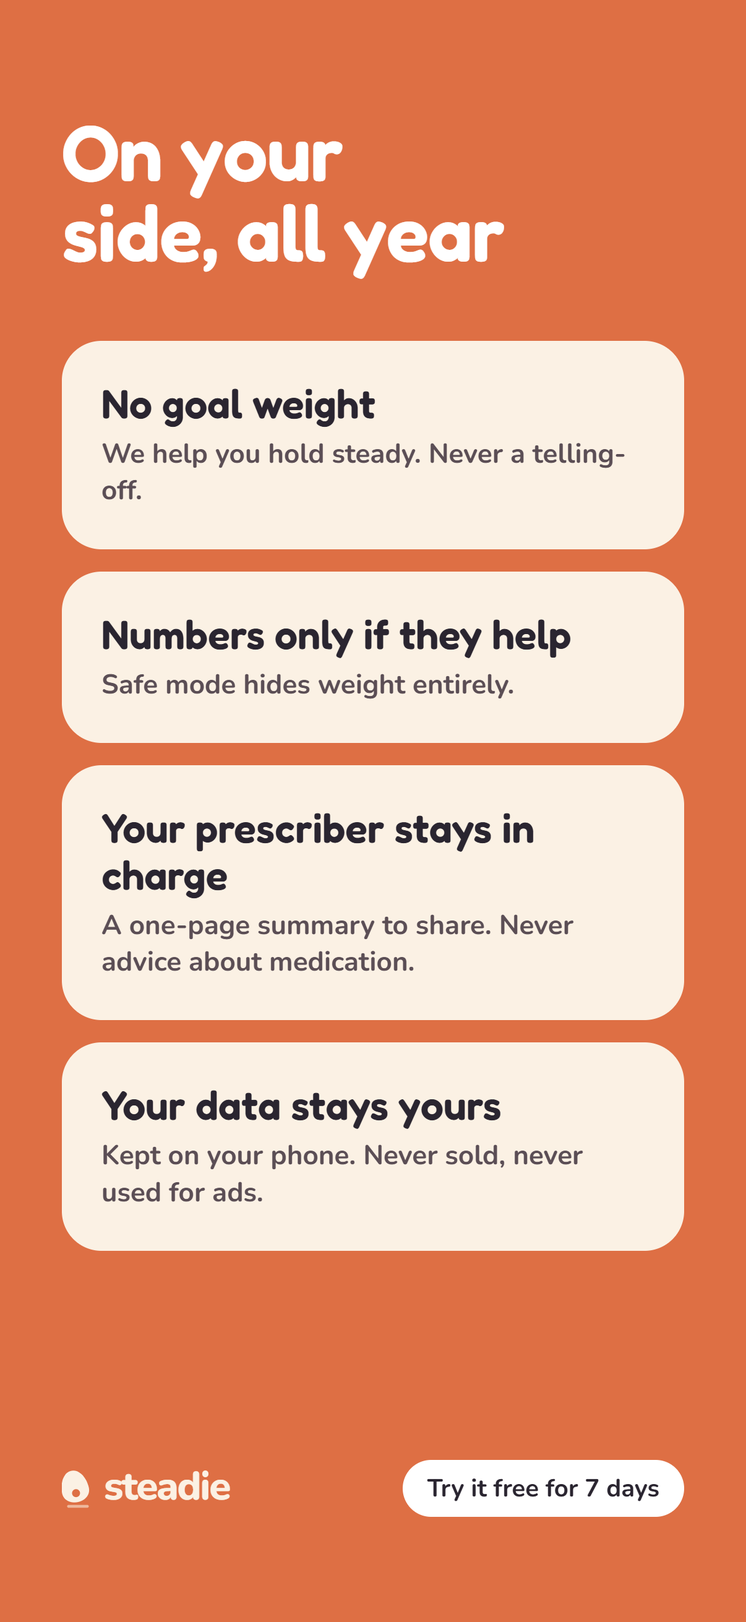
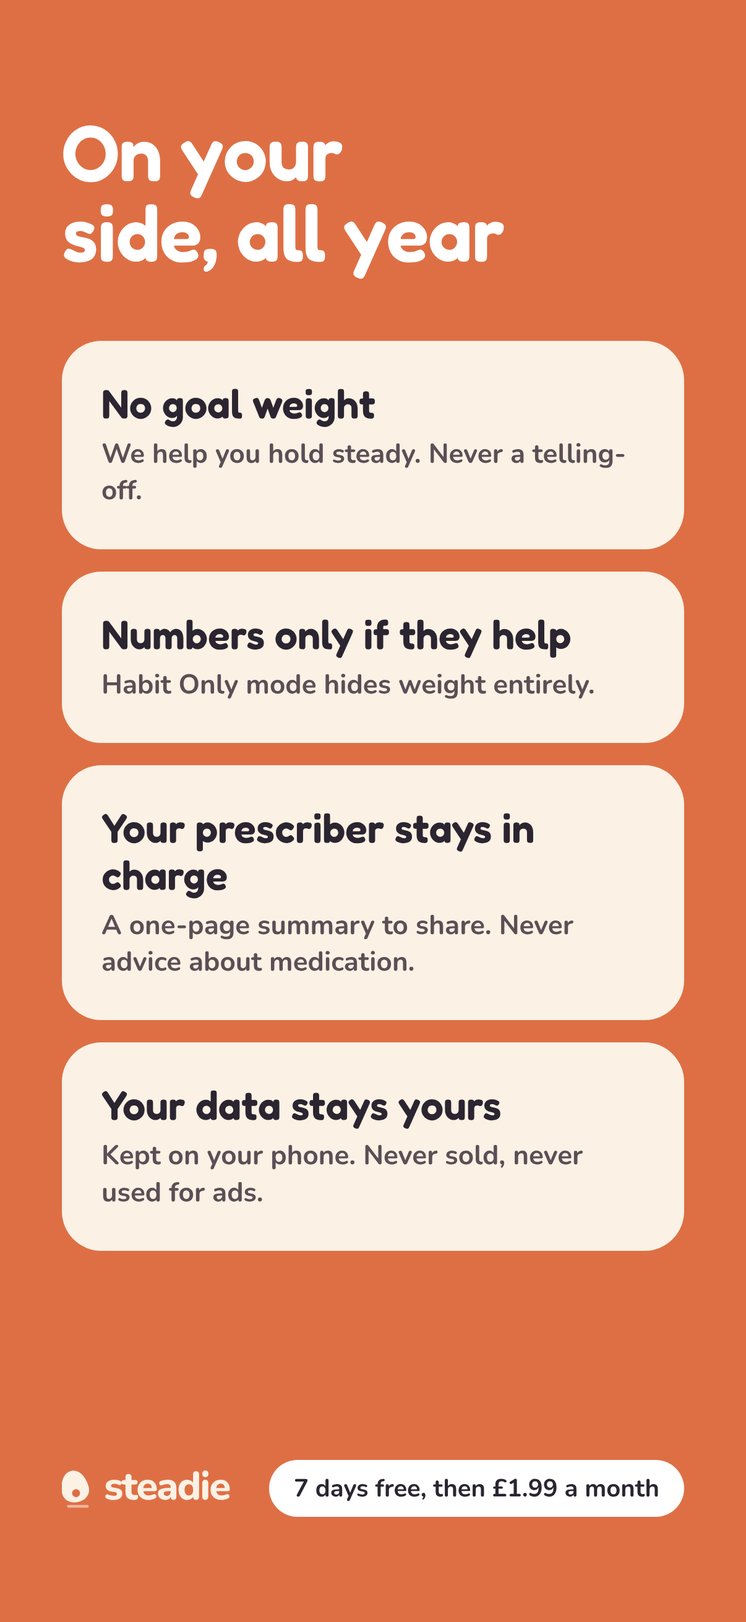
Launch price: £1.99 / $1.99 a month for new members, version 1.3
App: someone who has never had the plan sees RevenueCat's "launch"
offering (a separate £1.99 monthly subscription, kept for as long as they
stay subscribed) whenever it exists, labelled "Launch price"; everyone
else sees the usual plans. Deleting the offering in RevenueCat ends it.

Website: launch-price wording on the home pages (UK and US), pricing
card, FAQ, structured data, top bar and guide and tool footers, shown
only while LAUNCH_OFFER is "on" in Vercel.

Terms: a launch price stays the same while that subscription carries on.
App Store: slide 1 gets a launch-price pill and slide 10 reads "7 days
free, then £1.99 a month", with a $1.99 set for the US listing.
docs/payments.md has the App Store Connect, RevenueCat and Vercel steps.

Claude-Session: https://claude.ai/code/session_01AV66JMDACUJL34nuHYoVE1

Changed region(s): [[0.3375, 0.8959, 0.8897, 0.9577], [0.1534, 0.4016, 0.7977, 0.4325]]

diff --git a/apps/web/app/home.tsx b/apps/web/app/home.tsx
@@ -7,7 +7,7 @@ import { CareList } from "./care-list";
 import { ExerciseLoop } from "./exercise-loop";
 import { latestGuides, liveGuide, liveGuides } from "@/content/guides";
 import { SiteFooter, SiteHeader } from "./site-chrome";
-import { abs, appLive, appStoreUrl, availability, HOME, ldJson, ORGANIZATION, PRICE, PRICE_GBP, PRICE_US, PRICE_USD, SITE_NAME, type Region } from "./site";
+import { abs, appLive, appStoreUrl, availability, HOME, LAUNCH_OFFER, LAUNCH_PRICE, ldJson, ORGANIZATION, PRICE, PRICE_GBP, PRICE_US, PRICE_USD, SITE_NAME, type Region } from "./site";
 import { PrototypeLink } from "./prototype-link";
 import { StoreButtons } from "./app-store";
 import { GuideArt } from "./guides/art";
@@ -18,9 +18,9 @@ import { FilmPlayer } from "./film";
 // The home page, in two versions: the UK one at / (app/page.tsx) and the US one at /us (app/us/page.tsx). They share
 // everything except the words below: "jab" or "shot", GP or doctor, the brand names people know, and prices.
 const WORDS = {
-  uk: { jab: "jab", gp: "GP", brands: "Wegovy or Mounjaro", price: PRICE, raw: PRICE_GBP, currency: "GBP", lang: "en-GB",
+  uk: { jab: "jab", gp: "GP", brands: "Wegovy or Mounjaro", price: PRICE, raw: PRICE_GBP, launch: LAUNCH_PRICE.uk, currency: "GBP", lang: "en-GB",
     priceNote: "Prices in the UK, including VAT. Charged through your Apple account." },
-  us: { jab: "shot", gp: "doctor", brands: "Wegovy or Zepbound", price: PRICE_US, raw: PRICE_USD, currency: "USD", lang: "en-US",
+  us: { jab: "shot", gp: "doctor", brands: "Wegovy or Zepbound", price: PRICE_US, raw: PRICE_USD, launch: LAUNCH_PRICE.us, currency: "USD", lang: "en-US",
     priceNote: "Prices in US dollars. Sales tax is added where it applies. Charged through your Apple account." },
 } as const;
 type Words = (typeof WORDS)[Region];
@@ -127,7 +127,7 @@ const faqs = (live: boolean, w: Words) => [
   { q: "What do I need for the exercises?", a: "Nothing but a chair and a bit of space at home to start. Most moves have an easier version, and sessions step up gently over the weeks as you get stronger." },
   { q: "Does it work with my diet?", a: "Every meal has swaps for vegetarian, vegan, gluten-free, dairy-free, halal and kosher eating, allergies and a microwave-only kitchen." },
   { q: "Where is my data kept?", a: "On your phone. If you sign in, Steadie also keeps a private, encrypted backup so your plan moves with you to a new phone. It's never sold or used for ads, and you can export everything or delete your account from Settings. If you connect Apple Health, that information is only used for your own plan, and never for advertising." },
-  { q: "When can I use it, and what will it cost?", a: `${live ? `Now, on iPhone: download Steadie from the App Store.${availability(live).soonAndroid}` : "Steadie is coming soon to iPhone and Android."} Both plans start with a 7-day free trial: then ${w.price.yearly} a year, or ${w.price.monthly} a month. Cancel any time in your iPhone settings.` },
+  { q: "When can I use it, and what will it cost?", a: `${live ? `Now, on iPhone: download Steadie from the App Store.${availability(live).soonAndroid}` : "Steadie is coming soon to iPhone and Android."} ${LAUNCH_OFFER ? `It starts with a 7-day free trial, then ${w.launch} a month. That's our launch price for new members, and it stays yours for as long as you stay subscribed.` : `Both plans start with a 7-day free trial: then ${w.price.yearly} a year, or ${w.price.monthly} a month.`} Cancel any time in your iPhone settings.` },
 ];
 
 // STEP 1 trial extension (reference 1): mean change in body weight from the start of treatment.
@@ -180,7 +180,9 @@ const homeLd = (live: boolean, FAQS: ReturnType<typeof faqs>, region: Region) =>
       inLanguage: w.lang,
       publisher: { "@id": ORGANIZATION["@id"] },
       ...(live ? { url: store, downloadUrl: store } : {}),
-      offers: [
+      offers: LAUNCH_OFFER ? [
+        { "@type": "Offer", name: "Monthly, launch price", price: LAUNCH_PRICE.raw, priceCurrency: w.currency, description: "7 days free, then billed monthly at the launch price for as long as you stay subscribed." },
+      ] : [
         { "@type": "Offer", name: "Monthly", price: w.raw.monthly, priceCurrency: w.currency, description: "7 days free, then billed monthly." },
         { "@type": "Offer", name: "Yearly", price: w.raw.yearly, priceCurrency: w.currency, description: "7 days free, then billed yearly." },
       ],
@@ -219,7 +221,7 @@ export async function HomePage({ region }: { region: Region }) {
             <p className={styles.lede}>The 12-month plan for the year after you stop a weight-loss {w.jab}. Strength, protein and steady habits to keep the weight off, with support on your side.</p>
             <div id="download" className={styles.heroCta}>
               <StoreButtons campaign={`${page}-hero`} region={region} />
-              <p className={styles.storeNote}>7 days free, then {w.price.yearly} a year or {w.price.monthly} a month. For iPhone, and soon Android.</p>
+              <p className={styles.storeNote}>{LAUNCH_OFFER ? <>7 days free, then {w.launch} a month: our launch price, yours for as long as you stay.</> : <>7 days free, then {w.price.yearly} a year or {w.price.monthly} a month.</>} For iPhone, and soon Android.</p>
             </div>
           </div>
           <div className={styles.heroArt} aria-hidden="true">
@@ -468,13 +470,19 @@ export async function HomePage({ region }: { region: Region }) {
             <div className={styles.splitCopy}>
               <p className={styles.eyebrow}>Pricing</p>
               <h2 id="price-title" className={styles.h2Light}>One membership, everything included</h2>
-              <p className={styles.sectionLede}>Try everything free for 7 days, on either plan. We remind you before the trial ends, and you can cancel any time in your iPhone settings.</p>
+              <p className={styles.sectionLede}>{LAUNCH_OFFER ? <>Our launch price for new members: {w.launch} a month, for as long as you stay subscribed. Try everything free for 7 days first.</> : <>Try everything free for 7 days, on either plan.</>} We remind you before the trial ends, and you can cancel any time in your iPhone settings.</p>
             </div>
             <div className={styles.priceCard}>
-              <span className={styles.badge}>7 days free</span>
-              <p className={styles.priceName}>Yearly</p>
-              <p className={styles.price}>{w.price.yearly}<span> a year</span></p>
-              <p className={styles.muted}>About {w.price.weekly} a week. Or {w.price.monthly} a month. Both start with 7 days free.</p>
+              <span className={styles.badge}>{LAUNCH_OFFER ? "Launch price" : "7 days free"}</span>
+              {LAUNCH_OFFER ? <>
+                <p className={styles.priceName}>Monthly</p>
+                <p className={styles.price}>{w.launch}<span> a month</span></p>
+                <p className={styles.muted}>After 7 days free. The price stays yours for as long as you stay subscribed.</p>
+              </> : <>
+                <p className={styles.priceName}>Yearly</p>
+                <p className={styles.price}>{w.price.yearly}<span> a year</span></p>
+                <p className={styles.muted}>About {w.price.weekly} a week. Or {w.price.monthly} a month. Both start with 7 days free.</p>
+              </>}
               <ul className={styles.priceList}>
                 {["Your 12-month plan, with a lesson each week", "Strength sessions that step up as you do", "Easy meals, swaps and shopping lists", "A morning check-in and your weekly steady score", "A look back at your month, every four weeks", "A coach for tricky days", "A summary for your prescriber", "Reminders and Apple Health"].map((x) => (
                   <li key={x}><Icon name="check" size={18} />{x}</li>
@@ -519,9 +527,9 @@ export async function HomePage({ region }: { region: Region }) {
         <section className={styles.cta} aria-labelledby="cta-title">
           <div className={`${styles.wrap} ${styles.ctaInner}`}>
             <h2 id="cta-title" className={styles.display}>Make this year your steady one</h2>
-            <p className={styles.lede}>Try the full plan free for 7 days, on either plan.</p>
+            <p className={styles.lede}>Try the full plan free for 7 days{LAUNCH_OFFER ? "" : ", on either plan"}.</p>
             <StoreButtons campaign={`${page}-signoff`} region={region} />
-            <p className={styles.storeNote}>Then {w.price.yearly} a year or {w.price.monthly} a month. Cancel any time in your iPhone settings.</p>
+            <p className={styles.storeNote}>{LAUNCH_OFFER ? <>Then {w.launch} a month, our launch price.</> : <>Then {w.price.yearly} a year or {w.price.monthly} a month.</>} Cancel any time in your iPhone settings.</p>
           </div>
         </section>
       </main>

diff --git a/apps/mobile/src/state/subscription.ts b/apps/mobile/src/state/subscription.ts
@@ -5,7 +5,7 @@
 // always theirs. Two plans, monthly and yearly, each with a 7-day free trial for new subscribers. Products, prices
 // and the trials live in App Store Connect and RevenueCat (see docs/payments.md), not here.
 import { Linking, Platform } from "react-native";
-import Purchases, { INTRO_ELIGIBILITY_STATUS, LOG_LEVEL, PURCHASES_ERROR_CODE, type CustomerInfo, type PurchasesPackage } from "react-native-purchases";
+import Purchases, { INTRO_ELIGIBILITY_STATUS, LOG_LEVEL, PURCHASES_ERROR_CODE, type CustomerInfo, type PurchasesOffering, type PurchasesPackage } from "react-native-purchases";
 import { introPhrase, period } from "@/data/period";
 import { track } from "./events";
 import { install, updateInstall } from "./install";
@@ -94,18 +94,29 @@ export interface Plan {
   saving?: string;
   /** From a discount code's offering rather than the usual one. */
   discounted: boolean;
+  /** The launch price for new members (the "launch" offering): theirs for as long as they stay subscribed. */
+  launch: boolean;
 }
+
+/** The RevenueCat offering with the launch price for new members (£1.99 / $1.99 a month, kept for as long as they stay
+ *  subscribed). While it exists, people who have never had the plan see it; deleting it in RevenueCat ends the offer
+ *  with no app update. See docs/payments.md. */
+export const LAUNCH_OFFERING = "launch";
 
 /** The plans on offer, yearly first. A trial is only offered to people Apple will give it to (one per Apple ID, per
  *  subscription group); when RevenueCat can't tell, the plain price is shown, as Apple and RevenueCat advise. With a
- *  discount code's offering (`offering`), its discounted plans if RevenueCat has them, otherwise the usual ones. */
-export async function plans(offering?: string | null): Promise<Plan[]> {
-  // The current offering ("default" in RevenueCat), or the code's: its annual and monthly packages, picked by type
-  // rather than by the order the dashboard lists them in, with yearly first.
+ *  discount code's offering (`offering`), its discounted plans if RevenueCat has them; otherwise, for someone who has
+ *  never had the plan (`newMember`), the launch offering while there is one; otherwise the usual ones. */
+export async function plans(offering?: string | null, newMember = false): Promise<Plan[]> {
+  // The current offering ("default" in RevenueCat), the code's or the launch one: its annual and monthly packages,
+  // picked by type rather than by the order the dashboard lists them in, with yearly first.
   const all = await Purchases.getOfferings();
+  const has = (o?: PurchasesOffering) => !!o && !!(o.annual || o.monthly);
   const coded = offering ? all.all[offering] : undefined;
-  const discounted = !!coded && !!(coded.annual || coded.monthly);
-  const current = discounted ? coded : all.current;
+  const discounted = has(coded);
+  const launchOffer = !discounted && newMember ? all.all[LAUNCH_OFFERING] : undefined;
+  const launch = has(launchOffer);
+  const current = discounted ? coded : launch ? launchOffer : all.current;
   const monthlyPkg = current?.monthly ?? undefined;
   const pkgs = [current?.annual, current?.monthly].filter((p): p is PurchasesPackage => !!p);
   if (!pkgs.length) throw Object.assign(new Error("The current offering has no annual or monthly package."), { code: "none" });
@@ -132,6 +143,7 @@ export async function plans(offering?: string | null): Promise<Plan[]> {
         intro: introText,
         saving: saving > 0 ? `Save ${saving}%` : undefined,
         discounted,
+        launch,
       };
     });
 }

diff --git a/apps/mobile/src/app/settings/index.tsx b/apps/mobile/src/app/settings/index.tsx
@@ -47,14 +47,19 @@ export default function Settings() {
   // A week before a yearly plan renews: a calm note with the date and the way to change it.
   const renewal = renewalSoon(sub) && sub?.until ? renewalMessage(sub.until) : null;
   // A second free trial isn't on offer (one per Apple ID), so "See plans" only promises one when the App Store says so.
-  const [trial, setTrial] = useState<string | null>(null);
+  const [planLine, setPlanLine] = useState<string | null>(null);
   const subActive = !!sub?.active;
   useEffect(() => {
     if (!billingEnabled() || s.demo || subActive) return;
     let live = true;
-    plans().then((p) => { if (live) setTrial(p.find((x) => x.trial)?.trial ?? null); }, () => {});
+    // What "See plans" offers: the launch price for someone new, otherwise the trial (when Apple will give one) and the plans.
+    plans(null, !sub?.ended).then((p) => {
+      if (!live) return;
+      const trial = p.find((x) => x.trial)?.trial, launch = p.find((x) => x.launch);
+      setPlanLine(launch ? `${trial ? `${trial} free, then ` : ""}${launch.price} a month, the launch price` : trial ? `${trial} free, then monthly or yearly` : null);
+    }, () => {});
     return () => { live = false; };
-  }, [s.demo, subActive]);
+  }, [s.demo, subActive, sub?.ended]);
   const backedUp = status === "saving" ? "Backing up…" : status === "offline" ? "Couldn't reach Steadie. It'll try again." : account?.syncedAt ? `Backed up ${when(account.syncedAt)}` : "Backs up once your plan is set up";
   const fail = (e: unknown) => toast(e instanceof AccountError ? e.message : "Something went wrong. Try again.");
   // Without an account, signing out means deleting: there's no backup to come back to, so the warning says so plainly
@@ -139,7 +144,7 @@ export default function Settings() {
           <Row title="Restore purchases" onPress={() => restore().then((ok) => toast(ok ? "Your subscription is back." : `We couldn't find a subscription for this ${STORE_WORDS.account}.`), () => toast("Couldn't restore just now. Try again in a moment."))} />
           <Row title={`Redeem ${Platform.OS === "android" ? "a Google Play" : "an App Store"} code`} sub="An offer code from Steadie, entered with the store" onPress={() => redeemCode().catch(() => toast("Couldn't open the code screen just now. Try again in a moment."))} />
           <Row title="Send my Steadie ID" sub="For help with your subscription, or free access from us" onPress={() => subscriberId().then((id) => Share.share({ message: `My Steadie ID: ${id}` })).catch(() => toast("Couldn't get your Steadie ID just now. Try again in a moment."))} />
-          {sub?.active ? null : <Row title="See plans" sub={trial ? `${trial} free, then monthly or yearly` : "Monthly or yearly"} onPress={() => router.push("/paywall")} />}
+          {sub?.active ? null : <Row title="See plans" sub={planLine ?? "Monthly or yearly"} onPress={() => router.push("/paywall")} />}
         </List>
         {renewal ? (
           <Card style={{ gap: 6, marginTop: space[3] }}>

diff --git a/designs/brand/Steadie App Store Assets.dc.html b/designs/brand/Steadie App Store Assets.dc.html
@@ -77,14 +77,14 @@
 <div style="font:600 128px/1.02 Fredoka;color:#FFFFFF;letter-spacing:-0.01em;text-wrap:balance">On your side, all year</div>
 <div style="display:flex;flex-direction:column;gap:36px">
 <div style="background:#FBF1E4;border-radius:64px;padding:64px 64px;display:flex;flex-direction:column;gap:14px"><div style="font:600 66px/1.15 Fredoka;color:#2A2530">No goal weight</div><div style="font:700 44px/1.35 Nunito;color:#5B4E55">We help you hold steady. Never a telling-off.</div></div>
-<div style="background:#FBF1E4;border-radius:64px;padding:64px 64px;display:flex;flex-direction:column;gap:14px"><div style="font:600 66px/1.15 Fredoka;color:#2A2530">Numbers only if they help</div><div style="font:700 44px/1.35 Nunito;color:#5B4E55">Safe mode hides weight entirely.</div></div>
+<div style="background:#FBF1E4;border-radius:64px;padding:64px 64px;display:flex;flex-direction:column;gap:14px"><div style="font:600 66px/1.15 Fredoka;color:#2A2530">Numbers only if they help</div><div style="font:700 44px/1.35 Nunito;color:#5B4E55">Habit Only mode hides weight entirely.</div></div>
 <div style="background:#FBF1E4;border-radius:64px;padding:64px 64px;display:flex;flex-direction:column;gap:14px"><div style="font:600 66px/1.15 Fredoka;color:#2A2530">Your prescriber stays in charge</div><div style="font:700 44px/1.35 Nunito;color:#5B4E55">A one-page summary to share. Never advice about medication.</div></div>
 <div style="background:#FBF1E4;border-radius:64px;padding:64px 64px;display:flex;flex-direction:column;gap:14px"><div style="font:600 66px/1.15 Fredoka;color:#2A2530">Your data stays yours</div><div style="font:700 44px/1.35 Nunito;color:#5B4E55">Kept on your phone. Never sold, never used for ads.</div></div>
 </div>
 </div>
 <div style="position:absolute;left:100px;right:100px;bottom:170px;display:flex;align-items:center;justify-content:space-between;gap:30px">
 <div style="display:flex;align-items:center;gap:16px"><svg viewBox="22 18 56 76" width="52" height="70"><g transform="rotate(-12 50 80)"><path d="M50 24 C66 24 74 44 74 59 C74 72 63 80 50 80 C37 80 26 72 26 59 C26 44 34 24 50 24 Z" fill="#FBF1E4"></path><circle cx="50" cy="64" r="7" fill="#DE6F44"></circle></g><rect x="31" y="85" width="38" height="5" rx="2.5" fill="#FBF1E4" opacity=".55"></rect></svg><div style="font-family:Nunito;font-weight:800;font-size:64px;line-height:1;letter-spacing:-0.035em;color:#FBF1E4;display:flex;align-items:baseline;padding-bottom:6px"><span>stead</span><span style="position:relative;letter-spacing:0;margin-right:-0.035em">ı<span style="position:absolute;left:50%;top:0.1em;width:0.16em;height:0.16em;margin-left:-0.08em;border-radius:50%;background:#FBF1E4"></span></span><span>e</span></div></div>
-<div style="font:700 40px/1 Nunito;color:#2A2530;background:#FFFFFF;border-radius:999px;padding:26px 40px">Try it free for 7 days</div>
+<div style="font:700 40px/1 Nunito;color:#2A2530;background:#FFFFFF;border-radius:999px;padding:26px 40px">7 days free, then £1.99 a month</div>
 </div>
 </div></div>
 

diff --git a/apps/mobile/src/app/paywall.tsx b/apps/mobile/src/app/paywall.tsx
@@ -52,7 +52,8 @@ export default function Paywall() {
   const [codeText, setCodeText] = useState("");
   const [codeError, setCodeError] = useState<string | undefined>();
   const [codeBusy, setCodeBusy] = useState(false);
-  const fetchPlans = () => plans(discount?.offering).then((o) => { setOptions(o); setPick(0); }).catch((e) => setFailed(plansProblem(e)));
+  const newMember = !s.subscription?.active && !s.subscription?.ended;
+  const fetchPlans = () => plans(discount?.offering, newMember).then((o) => { setOptions(o); setPick(0); }).catch((e) => setFailed(plansProblem(e)));
   const load = () => { setFailed(null); setOptions(null); fetchPlans(); };
   useEffect(() => { track("paywall_viewed", { lapsed, from: fromOnboarding ? "onboarding" : "app" }); }, []); // eslint-disable-line react-hooks/exhaustive-deps
   useEffect(() => { fetchPlans(); }, [discount?.offering]); // eslint-disable-line react-hooks/exhaustive-deps
@@ -159,10 +160,10 @@ export default function Paywall() {
               <Pressable key={o.pkg.identifier} accessibilityRole="radio" accessibilityState={{ selected: on }} onPress={() => setPick(i)}
                 accessibilityLabel={`${o.title}, ${o.price} ${o.per}${o.trial ? `, ${o.trial} free` : ""}${o.intro ? `, ${o.intro}` : ""}`}
                 style={{ flex: 1, gap: 3, padding: 14, borderRadius: 20, backgroundColor: on ? c.apricot : c.surfaceRaised, borderWidth: on ? 2 : 1.5, borderColor: on ? c.apricotInk : c.line }}>
-                <AppText weight="800" color={on ? "onPastel" : "apricotInk"} style={{ fontSize: 13 }}>{yearly ? "Matches your 12 months" : "Flexible"}</AppText>
+                <AppText weight="800" color={on ? "onPastel" : "apricotInk"} style={{ fontSize: 13 }}>{o.launch ? "Launch price" : yearly ? "Matches your 12 months" : "Flexible"}</AppText>
                 <AppText weight="800" color={on ? "onPastel" : "ink"} style={{ fontSize: 18 }}>{yearly ? "Yearly" : "Monthly"}</AppText>
                 <AppText weight="800" color={on ? "onPastel" : "ink"} style={{ fontSize: 16 }}>{o.price} {o.per}</AppText>
-                <AppText variant="caption" weight="700" color={on ? "onPastel" : "inkMuted"} style={{ fontSize: 13 }}>{o.intro ? firstUpper(o.intro) : yearly ? perMonth(o) : "Cancel any month"}</AppText>
+                <AppText variant="caption" weight="700" color={on ? "onPastel" : "inkMuted"} style={{ fontSize: 13 }}>{o.intro ? firstUpper(o.intro) : o.launch ? "Yours for as long as you stay. Cancel any month" : yearly ? perMonth(o) : "Cancel any month"}</AppText>
               </Pressable>
             );
           })}

diff --git a/apps/web/app/guides/end-cta.tsx b/apps/web/app/guides/end-cta.tsx
@@ -1,5 +1,5 @@
 import type { Guide } from "@/content/guides";
-import { appLive, appStoreLink, availability, campaign, PRICE, type ProductPage } from "../site";
+import { appLive, appStoreLink, availability, campaign, LAUNCH_OFFER, LAUNCH_PRICE, PRICE, type ProductPage } from "../site";
 
 /** Which Custom Product Page a guide or tool sends people to: the tapering one for tapering pages, else after-the-jab. */
 export const productPageFor = (slug: string): ProductPage => (/taper/.test(slug) ? "taper" : "after");
@@ -12,7 +12,7 @@ import styles from "./guides.module.css";
 type Topic = "cost" | "comingOff" | "food" | "strength" | "appetite" | "habits" | "occasions" | "keeping" | "basics";
 
 const HOOKS: Record<Topic, string> = {
-  cost: `Stopping because of the price? Steadie is ${PRICE.weekly} a week and built for exactly this year.`,
+  cost: LAUNCH_OFFER ? `Stopping because of the price? Steadie is ${LAUNCH_PRICE.uk} a month at our launch price, and built for exactly this year.` : `Stopping because of the price? Steadie is ${PRICE.weekly} a week and built for exactly this year.`,
   comingOff: "Planning for life after your last jab? Steadie is a calm 12-month plan built for exactly this year.",
   food: "Want protein to feel easy? Steadie's meals take fifteen minutes hands-on, with a shopping list for your supermarket.",
   strength: "Not sure where to start with strength? Steadie's home sessions need only a chair and step up gently as you do.",
@@ -44,7 +44,7 @@ export async function GuideEndCta({ guide }: { guide: Pick<Guide, "slug" | "cate
       {live ? (
         <>
           <a className={styles.ctaButton} href={appStoreLink(campaign("guide-end", guide.slug), productPageFor(guide.slug))}>Try Steadie free for 7 days</a>
-          <span className={styles.endSmall}>On iPhone. Then {PRICE.yearly} a year or {PRICE.monthly} a month; cancel any time in your iPhone settings.{availability(live).soonAndroid}</span>
+          <span className={styles.endSmall}>On iPhone. Then {LAUNCH_OFFER ? `${LAUNCH_PRICE.uk} a month, our launch price` : `${PRICE.yearly} a year or ${PRICE.monthly} a month`}; cancel any time in your iPhone settings.{availability(live).soonAndroid}</span>
         </>
       ) : (
         <span className={styles.endSoon}>Coming soon to iPhone and Android</span>

diff --git a/packages/content/src/legal.ts b/packages/content/src/legal.ts
@@ -170,7 +170,7 @@ export const US_HEALTH_PRIVACY: LegalDoc = {
 
 export const TERMS: LegalDoc = {
   title: "Terms of use",
-  updated: UPDATED,
+  updated: "15 November 2026",
   intro: `These terms are the agreement between you and ${COMPANY} for using the Steadie app. Please read them with the health information the app shows when you start.`,
   sections: [
     { heading: "Who it's for", paras: ["You need to be 18 or over and live in the UK or the United States to use Steadie."] },
@@ -185,7 +185,8 @@ export const TERMS: LegalDoc = {
     ] },
     { heading: "Subscriptions", paras: [
       "Steadie needs a subscription, bought through the App Store: monthly or yearly. Prices are shown before you buy and are charged to your Apple account.",
-      "Both plans start with a 7-day free trial for new subscribers. If you don't cancel at least 24 hours before the trial ends, the subscription starts and you're charged. The app reminds you two days before, if you allow notifications. You can have one free trial per Apple ID.",
+      "Plans start with a 7-day free trial for new subscribers. If you don't cancel at least 24 hours before the trial ends, the subscription starts and you're charged. The app reminds you two days before, if you allow notifications. You can have one free trial per Apple ID.",
+      "We sometimes offer new members a launch price, shown before you buy. A launch price stays the same for as long as that subscription carries on without a break. If it ends and you subscribe again later, the price shown then applies.",
       "A subscription renews automatically at the same price and length until you cancel it in your Apple account settings, at least 24 hours before it renews. Refunds are handled by Apple.",
       "If your subscription ends, what you've logged stays on your phone and in your backup, and you can still export it.",
     ] },

diff --git a/apps/web/app/tools/shell.tsx b/apps/web/app/tools/shell.tsx
@@ -4,7 +4,7 @@ import home from "../page.module.css";
 import guides from "../guides/guides.module.css";
 import { productPageFor } from "../guides/end-cta";
 import { SiteFooter, SiteHeader } from "../site-chrome";
-import { abs, appLive, appStoreLink, availability, campaign, ldJson, ORGANIZATION, PRICE } from "../site";
+import { abs, appLive, appStoreLink, availability, campaign, LAUNCH_OFFER, LAUNCH_PRICE, ldJson, ORGANIZATION, PRICE } from "../site";
 import { TOOLS, type Tool } from "./list";
 import styles from "./tools.module.css";
 
@@ -61,7 +61,7 @@ export async function ToolShell({ tool, answer, children, body, faqs, sources }:
               {live ? (
                 <>
                   <a className={guides.ctaButton} href={appStoreLink(campaign("tool-end", tool.slug), productPageFor(tool.slug))}>Try Steadie free for 7 days</a>
-                  <span className={guides.endSmall}>On iPhone. Then {PRICE.yearly} a year or {PRICE.monthly} a month; cancel any time in your iPhone settings.{availability(live).soonAndroid}</span>
+                  <span className={guides.endSmall}>On iPhone. Then {LAUNCH_OFFER ? `${LAUNCH_PRICE.uk} a month, our launch price` : `${PRICE.yearly} a year or ${PRICE.monthly} a month`}; cancel any time in your iPhone settings.{availability(live).soonAndroid}</span>
                 </>
               ) : <span className={guides.endSoon}>Coming soon to iPhone and Android</span>}
             </aside>

diff --git a/apps/web/app/site-chrome.tsx b/apps/web/app/site-chrome.tsx
@@ -1,7 +1,7 @@
 import Link from "next/link";
 import { CookieSettingsButton } from "./consent";
 import { Lockup } from "./lockup";
-import { appLive, appStoreLink, availability, campaign, HOME, ORG_NAME, type Region } from "./site";
+import { appLive, appStoreLink, availability, campaign, HOME, LAUNCH_OFFER, LAUNCH_PRICE, ORG_NAME, type Region } from "./site";
 import styles from "./page.module.css";
 
 // The header and footer for every page. On the home page the section links are in-page anchors; elsewhere they point
@@ -28,7 +28,7 @@ export async function SiteHeader({ home = false, page = home ? "home" : "site", 
   return (
     <>
       <aside className={styles.announce} aria-label="Announcement">
-        {live ? <><span>{availability(live).headline}.</span> <a href={appStoreLink(campaign("top-bar", page), undefined, region)}>Try it free for 7 days</a></> : <span>Coming soon to iPhone and Android.</span>}
+        {live ? <><span>{availability(live).headline}.</span> <a href={appStoreLink(campaign("top-bar", page), undefined, region)}>{LAUNCH_OFFER ? `7 days free, then ${region === "us" ? LAUNCH_PRICE.us : LAUNCH_PRICE.uk} a month` : "Try it free for 7 days"}</a></> : <span>Coming soon to iPhone and Android.</span>}
       </aside>
       <header className={styles.header}>
         <div className={`${styles.wrap} ${styles.headerInner}`}>

diff --git a/apps/web/app/site.ts b/apps/web/app/site.ts
@@ -79,6 +79,11 @@ export const PRICE_GBP = { yearly: "69.99", monthly: "12.99" };
 /** US App Store prices (set in App Store Connect, October 2026). US prices exclude sales tax. ≈ $1.54 a week yearly. */
 export const PRICE_US = { yearly: "$79.99", weekly: "$1.54", monthly: "$14.99" };
 export const PRICE_USD = { yearly: "79.99", monthly: "14.99" };
+/** The launch price for new members: £1.99 / $1.99 a month, kept for as long as they stay subscribed, after the 7-day
+ *  free trial. Shown only while LAUNCH_OFFER is "on" in Vercel: turn it on once the launch subscription and the
+ *  RevenueCat "launch" offering are live (docs/payments.md), and off again when the offer ends (a redeploy applies it). */
+export const LAUNCH_OFFER = process.env.LAUNCH_OFFER === "on";
+export const LAUNCH_PRICE = { uk: "£1.99", us: "$1.99", raw: "1.99" } as const;
 export const abs = (path: string) => `${SITE_URL}${path.startsWith("/") ? path : `/${path}`}`;
 
 /** Metadata for a plain page: its own <title>, description, canonical and share card. Next replaces nested fields

diff --git a/docs/payments.md b/docs/payments.md
@@ -146,6 +146,41 @@ about **51 seconds before** the trial converts. To test:
 
 Sandbox renewals repeat up to 12 times a day, then stop.
 
+## Launch price: £1.99 a month for new members
+
+New members see one plan: **7 days free, then £1.99 a month** ($1.99 in the US), theirs for as long as they stay
+subscribed. People who have had the plan before see the usual plans. It's a separate subscription, not an
+introductory offer: Apple's introductory offers last a year at most, and this price is kept for good.
+
+**How the app picks it** (`apps/mobile/src/state/subscription.ts`, `LAUNCH_OFFERING`): for someone who has never had
+the plan, it shows RevenueCat's `launch` offering whenever that exists, and the usual `default` offering otherwise. A
+discount code still wins over both. The paywall labels it "Launch price: yours for as long as you stay".
+
+**Setting it up (once):**
+1. App Store Connect → Monetisation → Subscriptions: make a **new subscription group**, "Steadie Launch". A separate
+   group means people on £12.99 can't switch themselves down to £1.99 from their Apple subscription settings.
+2. In it, add **Steadie Monthly (Launch price)**, product ID `steadie_monthly_launch`, 1 month.
+   - Price: **£1.99** in the UK. In the US, set **$1.99** by hand, not Apple's converted price. Let Apple fill in the
+     other countries from the UK price.
+   - Introductory offer: **free, 1 week**, new subscribers, all countries.
+   - Add a display name, description and review screenshot, and add it to the app version for review.
+3. Google Play (when Android is live): add `steadie_monthly_launch` with a base plan at £1.99 / $1.99 and a 7-day
+   free-trial offer.
+4. RevenueCat:
+   1. Products → import `steadie_monthly_launch` and attach it to the `plan` entitlement.
+   2. Offerings → **New**, identifier `launch`, with a `$rc_monthly` package → `steadie_monthly_launch`.
+   3. Leave `default` as the current offering.
+5. Website: in Vercel, set **`LAUNCH_OFFER`** to `on` for Production and redeploy. The home page, pricing card, FAQ,
+   top bar and guide footers then show the launch price. Do this only once steps 1 to 4 are live, so the site never
+   shows a price the App Store doesn't.
+
+**Ending the offer:**
+1. In RevenueCat, delete the `launch` offering. New members then see the usual plans, with no app update.
+2. Set `LAUNCH_OFFER` to `off` in Vercel and redeploy.
+3. Leave `steadie_monthly_launch` on sale in App Store Connect. Removing it from sale doesn't end existing
+   subscriptions, but keeping it on sale is simplest. Members who joined at £1.99 keep that price for as long as they
+   stay subscribed, as the terms promise. Don't raise its price later.
+
 ## Discount codes, offer codes and free access
 
 Apple (guideline 3.1.1) and Google only allow subscriptions to be sold through their own billing. So no code in Steadie

diff --git a/marketing/app-store/README.md b/marketing/app-store/README.md
@@ -27,10 +27,17 @@ Upload in this order. Apple requires the **iPhone 6.9" Display** set; the 6.3" s
 
 All files are saved without an alpha channel: App Store Connect rejects screenshots and icons with transparency.
 
+### Launch price (November 2026)
+
+Slide 1 has a "Launch price · £1.99 a month" pill under the subtitle, and slide 10's pill reads "7 days free, then
+£1.99 a month". `listing/us/` is the same set with $1.99, for the **English (U.S.)** listing; `listing/6.9` and
+`listing/6.3` are for **English (U.K.)**. Upload them only once the launch subscription is live (see
+`docs/payments.md`). When the offer ends, go back to the slides from before (git history).
+
 ### Check before uploading
 
-- **Slide 10, "Try it free for 7 days":** true once both subscriptions have their 1-week free introductory offer in
-  App Store Connect (see `docs/payments.md`).
+- **Slides 1 and 10, the launch price:** true once `steadie_monthly_launch` is on sale with its 1-week free trial and
+  the RevenueCat `launch` offering exists (see `docs/payments.md`).
 - **Slide 10, "Your data stays yours: Kept on your phone":** since accounts, people who sign in also have a private
   backup. Consider "Kept private. Never sold, never used for ads." so it matches the privacy policy.
 
